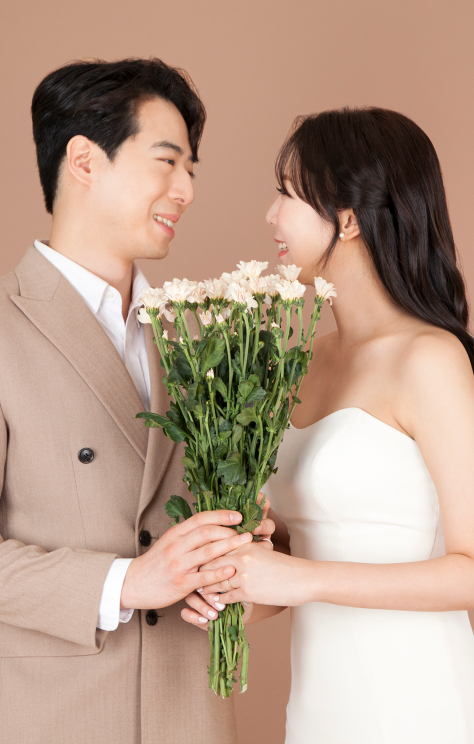
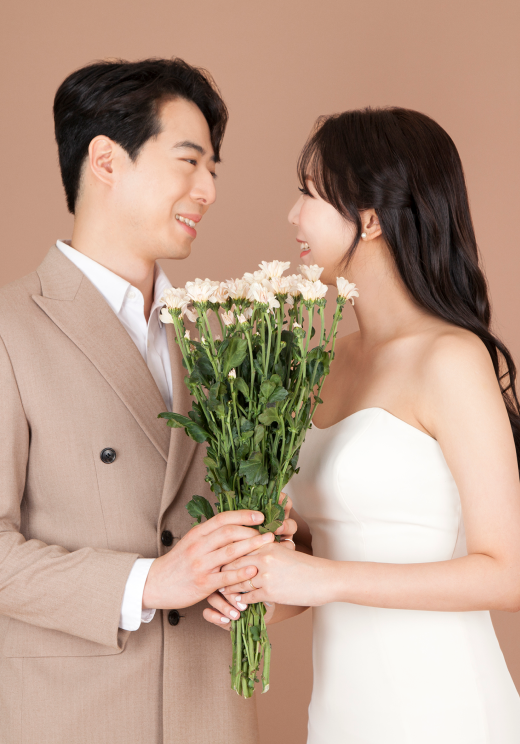
block pc environment

diff --git a/src/App.tsx b/src/App.tsx
@@ -1,4 +1,4 @@
-import React, { useState } from 'react';
+import React, { useEffect, useState } from 'react';
 import styled from 'styled-components';
 
 import GlobalStyle from './styles/globalStyle';
@@ -6,6 +6,13 @@ import './styles/App.scss';
 
 import Splash from './containers/Splash';
 import Content from './containers/Content';
+
+const NotiAvailMo = styled.div`
+  font-weight: bold;
+  font-size: 2.6rem;
+  width: 100vw;
+  height: 100vh;
+`;
 
 const WrapWrap: any = styled.div`
   background-color: ${(props: any) => props.backgroundColor};
@@ -31,12 +38,34 @@ const Wrap: any = styled.div`
 `;
 
 function App() {
+  const [isMobile, setIsMobile] = useState(false);
   const [splash, setSplash] = useState(true);
   const onChangeSplash = () => {
     setTimeout(() => {
       setSplash((prev) => !prev);
     }, 1600);
   };
+
+  // 모바일 체크 함수
+  const checkMobile = () => {
+    const user = window.navigator.userAgent;
+    let isMobile = false;
+
+    if (
+      user.indexOf('iPhone') > -1 ||
+      user.indexOf('Android') > -1 ||
+      user.indexOf('iPad') > -1 ||
+      user.indexOf('iPod') > -1
+    ) {
+      isMobile = true;
+    }
+
+    return isMobile;
+  };
+
+  useEffect(() => {
+    setIsMobile(checkMobile());
+  }, []);
 
   const [photoNumber, setPhotoNumber] = useState(0);
   const changePhoto = (e: any): any => {
@@ -48,6 +77,13 @@ function App() {
     )
       setPhotoNumber(photoNumber + 1);
   };
+
+  if (!isMobile)
+    return (
+      <>
+        <NotiAvailMo>모바일 기기만 지원합니다.</NotiAvailMo>
+      </>
+    );
 
   return (
     <>

diff --git a/src/components/PhotoBox.tsx b/src/components/PhotoBox.tsx
@@ -42,7 +42,7 @@ const PhotoWrap = styled.div<any>`
   box-shadow: 0 0 12px rgba(0, 0, 0, 0.1);
   background-image: url(${one});
   background-image: ${(props) => `url(${props.photo})`};
-  background-position: center center;
+  background-position: center bottom;
   background-repeat: no-repeat;
   background-size: cover;
   height: 100%;
